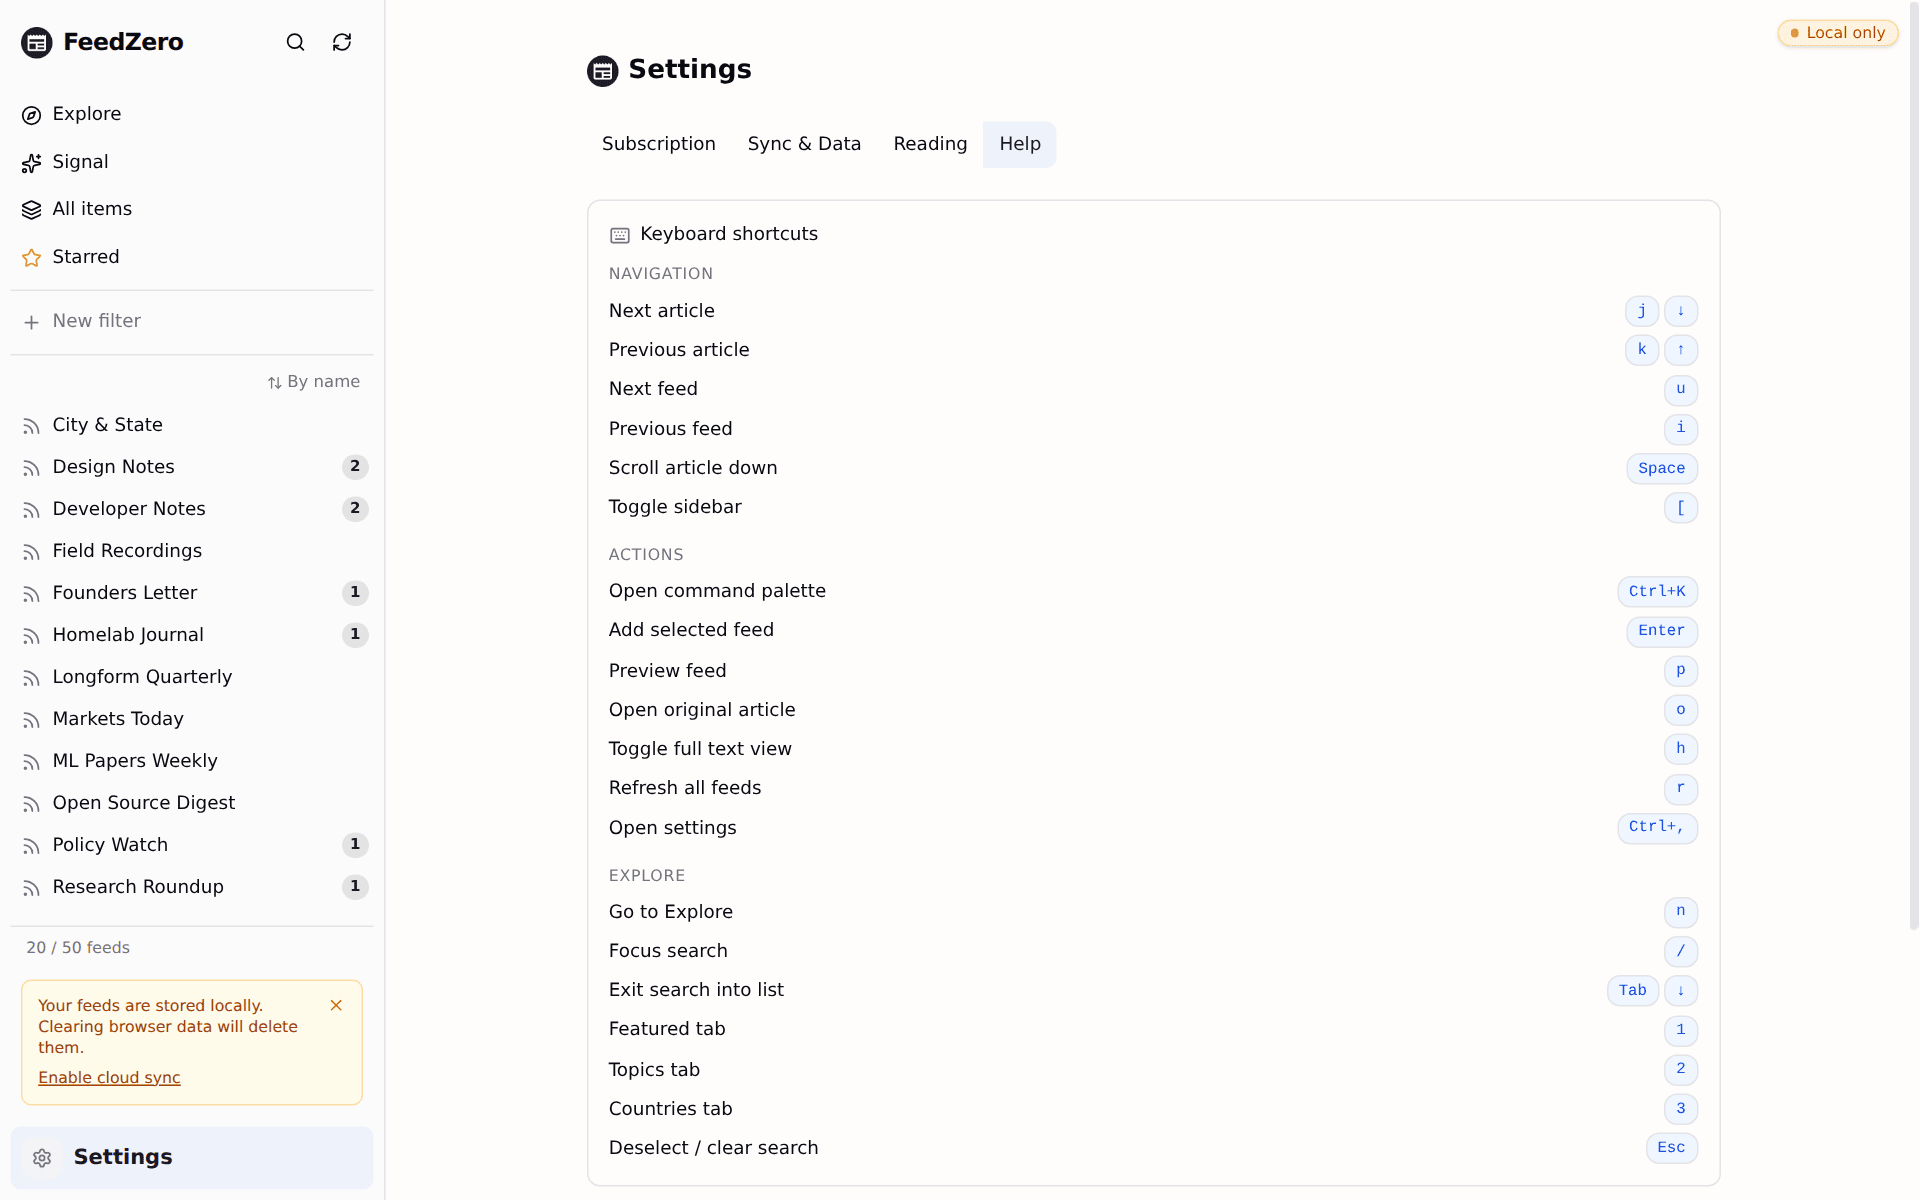
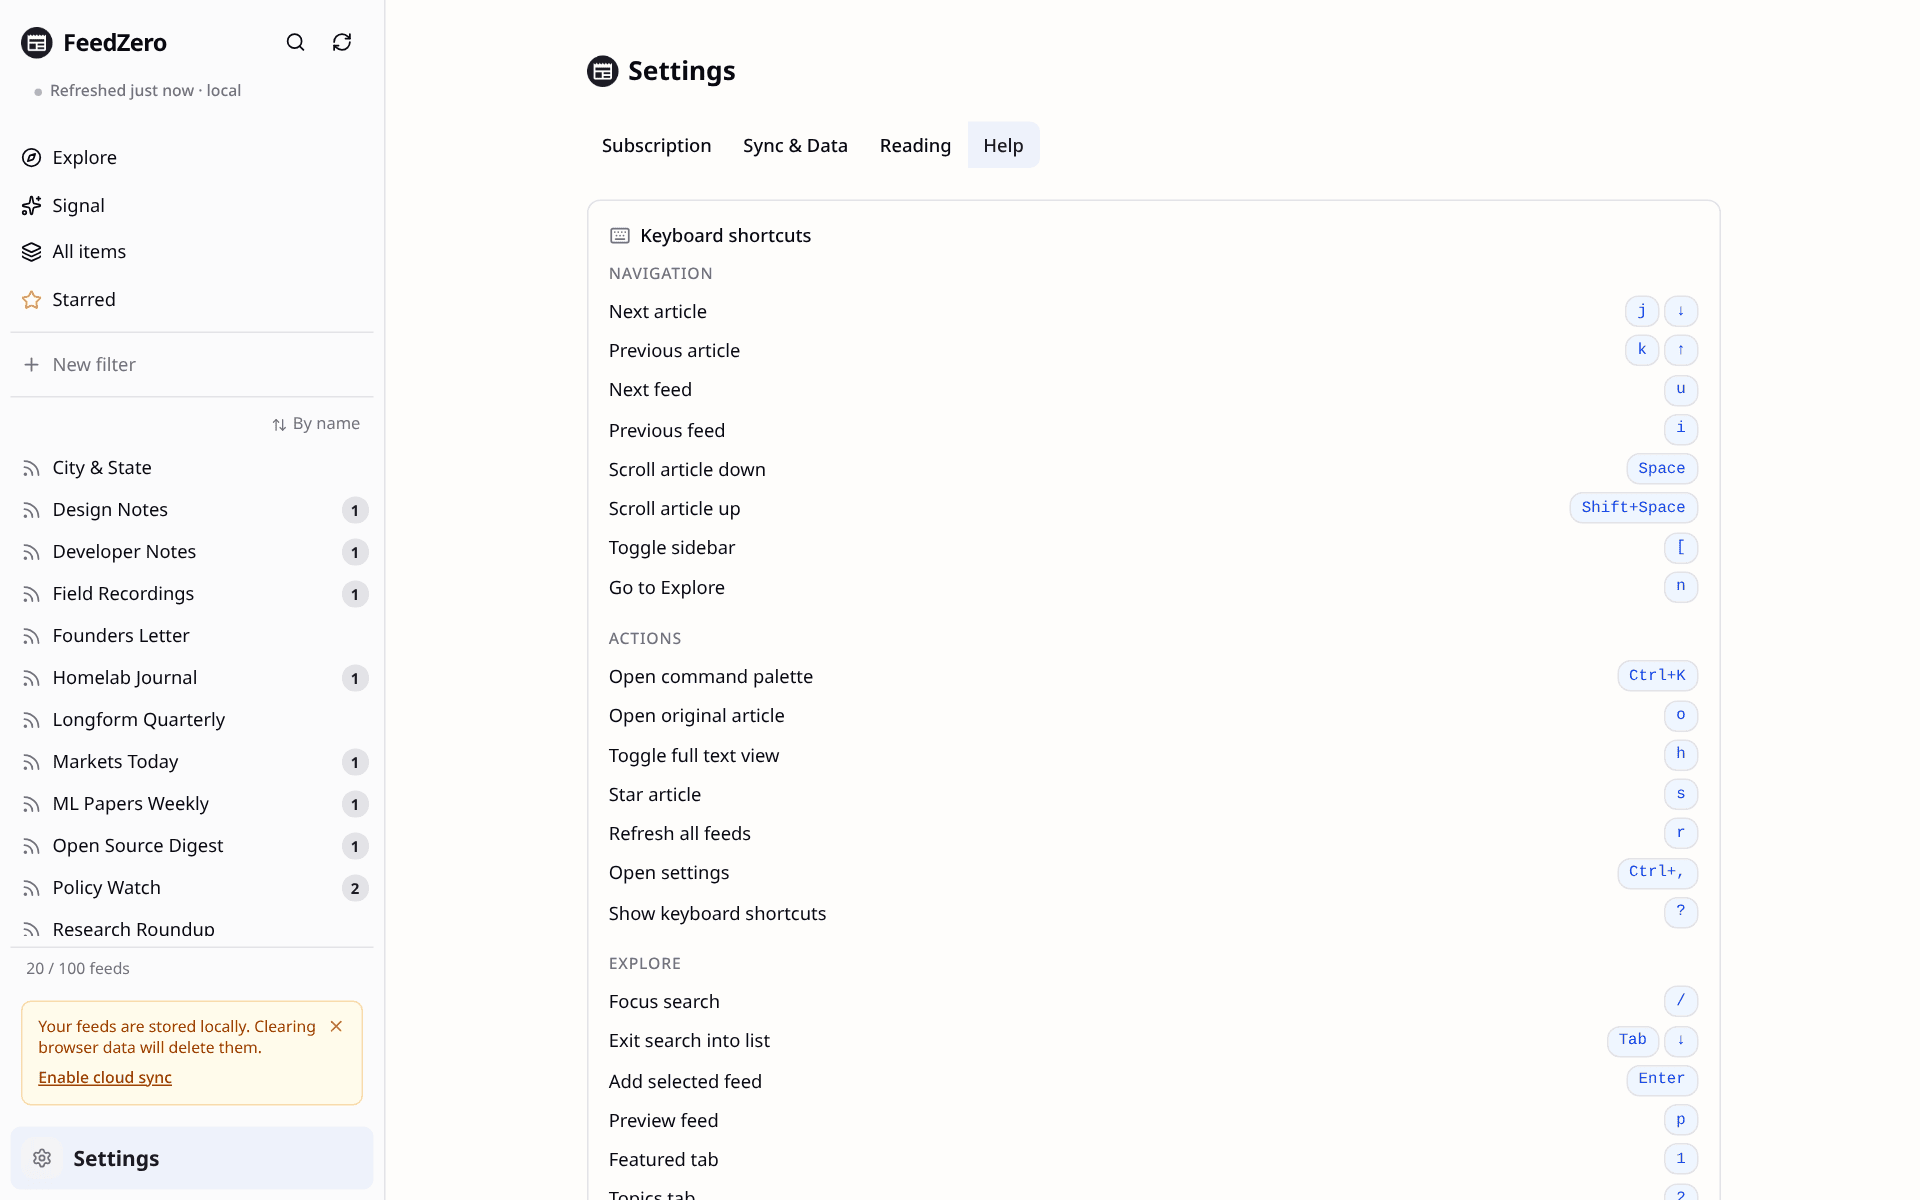
docs(marketing): refresh the nine feature screenshots for v0.15.0
What
The per-feature screenshots the landing page mirrors from this repo
dated from 2026-05-25. They showed the old "20 / 50 feeds" limit and a
sync status pill the app no longer has. `scripts/capture-marketing.mjs`
could not regenerate them: every scene timed out.

Why
The script waited for a fresh install to initialise silently. Since the
2026-05-28 onboarding fix the welcome modal stays up until the user
picks a storage mode, so the app never appeared behind it.

Fix
- completeOnboarding() clicks through the modal on the local-only path
  (Get Started, Local only, Continue), the same steps the onboarding
  E2E test takes.
- All nine images regenerated and compressed with pngquant (55-110 KB).
  Each was checked by eye against its caption on the landing page.
- README: the sync row no longer describes the removed "Synced" pill,
  and the onboarding step describes the modal.

Prevention
The release skill now refreshes these every release (#323), which is
what keeps the script from rotting unnoticed again. The previous commit
on this branch makes a failing scene save a picture of the page.

Claude-Session: https://claude.ai/code/session_01J6mQo4NT9bvESJ4jFdq6DA

diff --git a/docs/marketing/screenshots/README.md b/docs/marketing/screenshots/README.md
@@ -9,7 +9,7 @@ URLs from `main`, so any changes here ship live on the next deploy.
 | Filename                       | Depicts                                                                                  |
 | ------------------------------ | ---------------------------------------------------------------------------------------- |
 | `feature-any-feed.png`         | Explore URL input with the discovery chip — RSS / **Atom** / JSON Feed pills + "Example Blog · Press Enter to add" |
-| `feature-sync.png`             | SetupWizard with the four-word passphrase + the persistent "Synced · 1 min ago" pill in the top-right corner |
+| `feature-sync.png`             | The "Your secret key" dialog showing the four-word passphrase, over a blurred Settings page |
 | `feature-keyboard.png`         | Settings → Help, keyboard-shortcuts card with `j` `k` `u` `o` …                          |
 | `feature-switch-readers.png`   | Pre-import preview tree — folders with feed counts, OPML provenance ("Imported from you 'My subscriptions'") and the "Import 11 feeds" confirmation |
 | `feature-starring.png`         | Sidebar "Starred" selected, list of starred articles, filled-star reader                 |
@@ -33,8 +33,8 @@ The script:
 1. Boots `vite --port 3001 --strictPort` as a child process.
 2. Opens Playwright (Chromium) at 1280×800 CSS × 1.5 DPR — enough to
    trigger the desktop two-pane layout, output exactly 1920×1200.
-3. Drives the silent local-only onboarding (no welcome screen — the
-   app auto-initialises a fresh DB).
+3. Clicks through the welcome modal on the local-only path (Get
+   Started → Local only → Continue), the same steps a new user takes.
 4. Seeds 20 neutral demo feeds + 36 articles into the live IndexedDB
    by dynamic-importing `src/core/storage/db.ts` from the dev server.
    No real publications, no real authors — generic archetypes only
